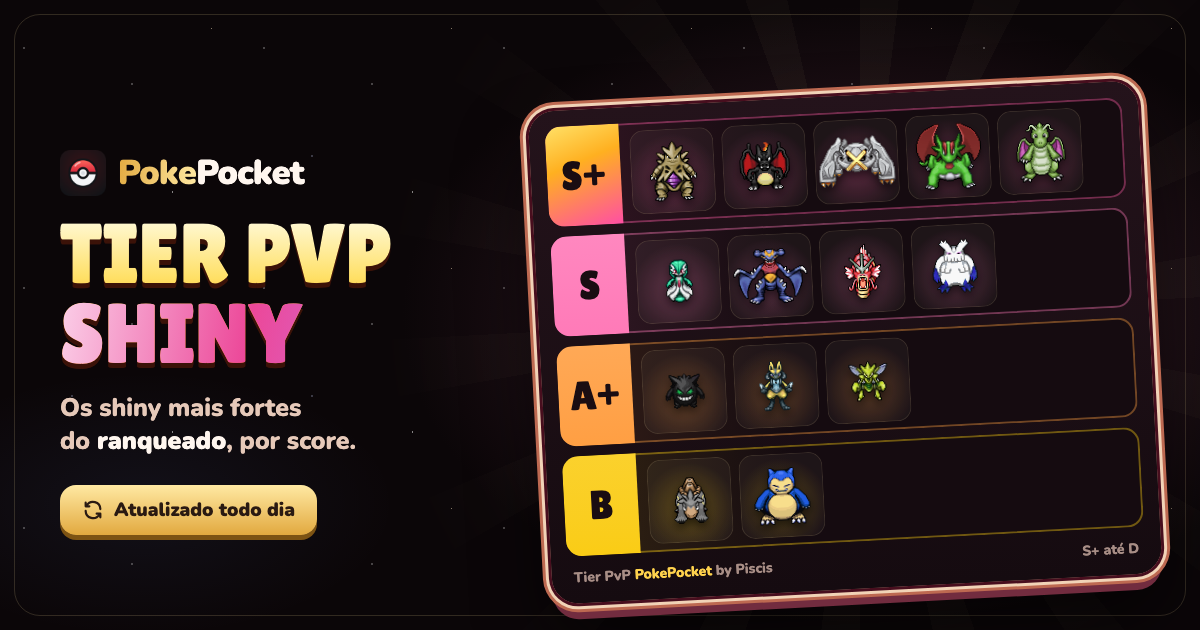
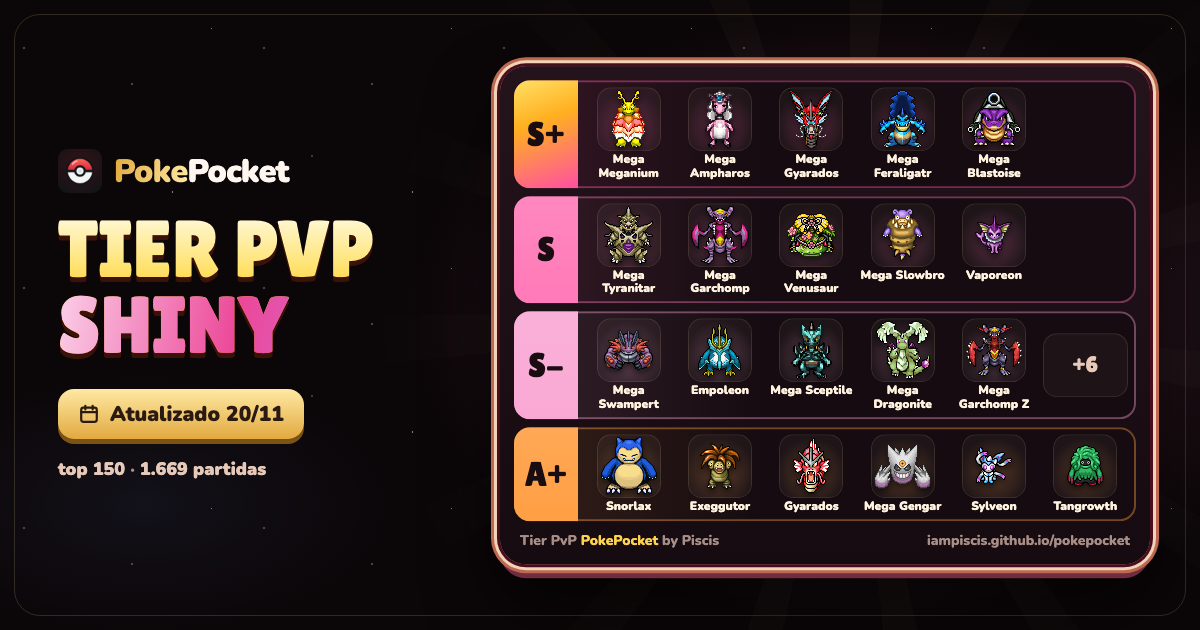
feat: prévia diária do tier com dados reais e cartões mais altos e estreitos

diff --git a/tier/previa.html b/tier/previa.html
@@ -1,0 +1,124 @@
+<!doctype html>
+<html lang="pt-BR">
+<head>
+<meta charset="utf-8" />
+<meta name="robots" content="noindex" />
+<meta name="viewport" content="width=1200" />
+<title>Prévia do Tier PvP</title>
+<style>
+@font-face { font-family: "Lilita"; src: url("../assets/fontes/lilita.woff2") format("woff2"); }
+@font-face { font-family: "Nunito"; src: url("../assets/fontes/nunito.woff2") format("woff2"); font-weight: 200 1000; }
+* { box-sizing: border-box; margin: 0; padding: 0; }
+html, body { width: 1200px; height: 630px; overflow: hidden; }
+body { position: relative; background: #0b0608; color: #fff6ef; font-family: "Nunito", sans-serif; }
+.fundo { position: absolute; inset: 0; background: radial-gradient(55% 70% at 72% 50%, #3d1f2c 0%, transparent 70%), radial-gradient(30% 30% at 12% 80%, rgba(120, 160, 255, 0.07), transparent 70%), #0b0608; }
+.fundo::before { content: ""; position: absolute; inset: 0; background-image: radial-gradient(1.4px 1.4px at 10% 20%, #fff 50%, transparent 51%), radial-gradient(1.4px 1.4px at 30% 65%, #cfd8ff 50%, transparent 51%), radial-gradient(1.4px 1.4px at 55% 35%, #fff 50%, transparent 51%), radial-gradient(1.4px 1.4px at 72% 80%, #fff 50%, transparent 51%), radial-gradient(1.4px 1.4px at 88% 12%, #ffe9c4 50%, transparent 51%); background-size: 240px 240px; opacity: 0.5; }
+.raios { position: absolute; left: 850px; top: 315px; width: 1100px; height: 1100px; margin: -550px 0 0 -550px; border-radius: 50%; background: repeating-conic-gradient(rgba(255, 233, 163, 0.05) 0deg 6deg, transparent 6deg 24deg); -webkit-mask: radial-gradient(circle, #000 10%, transparent 62%); mask: radial-gradient(circle, #000 10%, transparent 62%); }
+.moldura { position: absolute; inset: 14px; border-radius: 26px; border: 1px solid rgba(255, 233, 163, 0.16); }
+.esq { position: absolute; left: 58px; top: 0; bottom: 0; width: 400px; display: flex; flex-direction: column; justify-content: center; }
+.marca { display: flex; align-items: center; gap: 12px; font-weight: 900; font-size: 32px; letter-spacing: -0.02em; }
+.marca img { width: 44px; height: 44px; }
+.marca .p { background: linear-gradient(100deg, #e2a93f, #ffe9a3); -webkit-background-clip: text; background-clip: text; color: transparent; }
+h1 { margin-top: 18px; font-family: "Lilita"; font-weight: 400; font-size: 80px; line-height: 0.95; text-transform: uppercase; background: linear-gradient(180deg, #fffbe0 0%, #ffe066 40%, #ffb020 65%, #e8650f 100%); -webkit-background-clip: text; background-clip: text; color: transparent; filter: drop-shadow(0 5px 0 #3b1208); }
+h1 span { display: block; background: linear-gradient(100deg, #fbcfe8, #ec4899 45%, #c084fc); -webkit-background-clip: text; background-clip: text; color: transparent; }
+.data { display: inline-flex; align-self: flex-start; align-items: center; gap: 10px; margin-top: 26px; padding: 11px 20px; border-radius: 16px; background: linear-gradient(180deg, #ffe9a3, #e2a93f); color: #2a1a12; font-weight: 900; font-size: 21px; box-shadow: 0 5px 0 #7d5313; }
+.data svg { width: 22px; height: 22px; }
+.base { margin-top: 18px; font-size: 18px; font-weight: 800; color: #a88e86; }
+.base b { color: #e6c9b9; }
+.painel { position: absolute; left: 500px; top: 50%; width: 650px; padding: 14px; border-radius: 26px; transform: translateY(-50%); background: linear-gradient(180deg, #24131b, #150b10); box-shadow: 0 0 0 3px #480e1e, 0 0 0 6px #f1d3b7, 0 0 0 9px #bd6951, 0 14px 0 #722c3f, 0 36px 70px rgba(0, 0, 0, 0.6); display: grid; gap: 8px; }
+.faixa { --cor: #ff7ab8; display: grid; grid-template-columns: 64px 1fr; border-radius: 16px; overflow: hidden; background: linear-gradient(90deg, color-mix(in srgb, var(--cor) 14%, #150b10), #150b10 40%); box-shadow: inset 0 0 0 2px color-mix(in srgb, var(--cor) 40%, transparent); }
+.faixa > b { display: grid; place-items: center; font-family: "Lilita"; font-weight: 400; font-size: 34px; color: #1a0d12; background: linear-gradient(180deg, color-mix(in srgb, var(--cor) 90%, #fff), var(--cor)); }
+.faixa.splus > b { background: linear-gradient(160deg, #ffe066 0%, #ffb020 38%, #ff4fa3 100%); }
+.cel { display: grid; grid-template-columns: repeat(6, minmax(0, 1fr)); gap: 6px; padding: 7px 8px; }
+.poke { display: grid; justify-items: center; align-content: start; gap: 2px; min-width: 0; }
+.poke i { display: grid; place-items: center; width: 64px; height: 64px; border-radius: 14px; background: radial-gradient(circle at 50% 60%, color-mix(in srgb, var(--cor) 26%, transparent), transparent 70%), rgba(255, 246, 239, 0.04); box-shadow: inset 0 0 0 1px rgba(255, 233, 163, 0.12); }
+.poke img { max-width: 58px; max-height: 58px; image-rendering: pixelated; filter: drop-shadow(0 3px 3px rgba(0, 0, 0, 0.55)); }
+.poke span { max-width: 100%; font-size: 12px; font-weight: 900; line-height: 1.15; text-align: center; color: #fff3df; }
+.mais { display: grid; place-items: center; align-self: center; height: 64px; border-radius: 14px; font-family: "Lilita"; font-size: 22px; color: #e6c9b9; background: rgba(255, 246, 239, 0.04); box-shadow: inset 0 0 0 1px rgba(255, 233, 163, 0.12); }
+.pe { display: flex; justify-content: space-between; padding: 2px 6px 0; font-size: 14px; font-weight: 800; color: #a88e86; }
+.pe em { font-style: normal; color: #ffd34d; }
+</style>
+</head>
+<body>
+<div class="fundo"></div>
+<div class="raios"></div>
+<div class="moldura"></div>
+<div class="esq">
+  <div class="marca"><img src="../assets/icone.png" alt="" /><span><span class="p">Poke</span>Pocket</span></div>
+  <h1>Tier PvP<span>shiny</span></h1>
+  <span class="data"><svg viewBox="0 0 24 24" fill="none" stroke="currentColor" stroke-width="2.4" stroke-linecap="round" stroke-linejoin="round"><rect x="3.5" y="5" width="17" height="15.5" rx="2.5"/><path d="M3.5 10h17M8 3v4M16 3v4"/></svg><span id="data">Atualizado todo dia</span></span>
+  <p class="base" id="base"></p>
+</div>
+<div class="painel" id="painel"></div>
+<script type="module">
+const COR = { 'S+': '#ff5fa8', S: '#ff7ab8', 'S-': '#f9a8d4', 'A+': '#ff9f43', A: '#ffb86b', 'A-': '#ffd08a', 'B+': '#facc15', B: '#fde047', 'B-': '#fef08a', 'C+': '#60a5fa', C: '#93c5fd', 'C-': '#bfdbfe', D: '#a1a1aa' }
+const SPRITES = '../calculadora/jogo/sprites-png/'
+const POR_FAIXA = 6
+const ALTURA_MAX = 540
+const fmt = new Intl.NumberFormat('pt-BR')
+const el = (tag, cls, txt) => { const n = document.createElement(tag); if (cls) n.className = cls; if (txt != null) n.textContent = txt; return n }
+const num = (v) => v != null && v !== '' && Number.isFinite(Number(v))
+const cargas = []
+
+function sprite(p) {
+  const img = el('img')
+  img.alt = ''
+  const fila = [...new Set([p.looktype, p.lookNormal, 60000 + Number(p.speciesId)].filter(num).map(Number))].map((l) => `${SPRITES}${l}.png`)
+  cargas.push(new Promise((ok) => {
+    const proxima = () => { const u = fila.shift(); if (u) img.src = u; else { img.src = '../assets/pokebola.svg'; img.onerror = null; ok() } }
+    img.onload = ok
+    img.onerror = proxima
+    proxima()
+  }))
+  return img
+}
+
+function faixa(t) {
+  const f = el('div', `faixa${t.tier === 'S+' ? ' splus' : ''}`)
+  f.style.setProperty('--cor', COR[t.tier] || '#a1a1aa')
+  f.append(el('b', '', t.tier))
+  const cel = el('div', 'cel')
+  const itens = t.itens || []
+  const vistos = itens.length > POR_FAIXA ? POR_FAIXA - 1 : POR_FAIXA
+  for (const p of itens.slice(0, vistos)) {
+    const c = el('div', 'poke')
+    const i = el('i')
+    i.append(sprite(p))
+    c.append(i, el('span', '', p.nome))
+    cel.append(c)
+  }
+  if (itens.length > vistos) cel.append(el('div', 'mais', `+${itens.length - vistos}`))
+  f.append(cel)
+  return f
+}
+
+async function montar() {
+  const dados = await (await fetch('tier.json', { cache: 'no-cache' })).json()
+  const j = dados.janelas?.dia || dados
+  const g = new Date(dados.geradoEm)
+  if (!Number.isNaN(g.getTime())) document.getElementById('data').textContent = `Atualizado ${new Intl.DateTimeFormat('pt-BR', { day: '2-digit', month: '2-digit', timeZone: 'America/Sao_Paulo' }).format(g)}`
+  const topo = j.topo ?? dados.topo
+  const base = []
+  if (num(topo)) base.push(`top ${fmt.format(topo)}`)
+  if (num(j.partidas)) base.push(`${fmt.format(j.partidas)} partidas`)
+  const pBase = document.getElementById('base')
+  base.forEach((t, i) => { if (i) pBase.append(' · '); pBase.append(Object.assign(el('b'), { textContent: t })) })
+  const painel = document.getElementById('painel')
+  const pe = el('div', 'pe')
+  const assinatura = el('span')
+  assinatura.append('Tier PvP ', Object.assign(el('em'), { textContent: 'PokePocket' }), ' by Piscis')
+  pe.append(assinatura, el('span', '', 'iampiscis.github.io/pokepocket'))
+  painel.append(pe)
+  for (const t of (j.tiers || []).filter((t) => t.itens?.length)) {
+    const f = faixa(t)
+    painel.insertBefore(f, pe)
+    if (painel.offsetHeight > ALTURA_MAX) { f.remove(); break }
+  }
+  await Promise.all(cargas)
+  await document.fonts.ready
+}
+
+montar().catch(() => {}).finally(() => { document.body.dataset.pronto = '1' })
+</script>
+</body>
+</html>

diff --git a/tier/tier.css b/tier/tier.css
@@ -1,4 +1,4 @@
-.envolve.largo { width: min(1480px, calc(100% - 32px)); }
+.envolve.largo { width: min(1600px, calc(100% - 32px)); }
 .abre { padding: 14px 0 4px; }
 .abre h1 { margin-top: 0; }
 .abre p { margin-top: 4px; font-size: 14px; font-weight: 700; }
@@ -44,24 +44,28 @@
 .faixa-rot b { font-family: var(--display); font-weight: 400; font-size: 24px; line-height: 1; }
 .faixa-rot small { font-size: 10.5px; font-weight: 900; opacity: 0.72; white-space: nowrap; }
 .faixa.topo-s .faixa-rot { background: linear-gradient(160deg, #ffe066 0%, #ffb020 38%, #ff4fa3 100%); }
-.faixa-cartoes { display: grid; grid-template-columns: repeat(auto-fill, minmax(232px, 1fr)); gap: 5px; padding: 5px; }
+.faixa-cartoes { display: grid; grid-template-columns: repeat(auto-fill, minmax(192px, 1fr)); gap: 6px; padding: 6px; }
 
-.poke { display: grid; grid-template-columns: 40px minmax(0, 1fr) auto; grid-template-areas: "img cab val" "img uso uso" "img esc esc"; align-items: center; column-gap: 8px; row-gap: 3px; height: 100%; min-height: 56px; padding: 6px 10px 7px 6px; border-radius: 10px; text-decoration: none; background: rgba(255, 246, 239, 0.035); box-shadow: inset 0 0 0 1px rgba(255, 233, 163, 0.1); transition: transform 0.18s cubic-bezier(0.34, 1.56, 0.64, 1), background-color 0.18s, box-shadow 0.18s; }
+.poke { display: grid; grid-template-columns: 48px minmax(0, 1fr) auto; grid-template-rows: auto auto 1fr auto; grid-template-areas: "img cab cab" "img val pt" "img uso uso" "esc esc esc"; align-items: center; column-gap: 8px; row-gap: 1px; height: 100%; min-height: 80px; padding: 6px 10px 7px 6px; border-radius: 10px; text-decoration: none; background: rgba(255, 246, 239, 0.035); box-shadow: inset 0 0 0 1px rgba(255, 233, 163, 0.1); transition: transform 0.18s cubic-bezier(0.34, 1.56, 0.64, 1), background-color 0.18s, box-shadow 0.18s; }
 .poke:hover { transform: translateY(-1px); background: rgba(255, 246, 239, 0.07); box-shadow: inset 0 0 0 1px color-mix(in srgb, var(--cor) 70%, transparent), 0 6px 14px rgba(0, 0, 0, 0.35); }
 .poke:focus-visible { outline: 3px solid var(--ouro); outline-offset: 2px; }
-.poke-img { grid-area: img; display: grid; place-items: center; width: 40px; height: 40px; border-radius: 10px; background: radial-gradient(circle at 50% 60%, color-mix(in srgb, var(--cor) 22%, transparent), transparent 70%); }
-.poke-img img { max-width: 40px; max-height: 40px; width: auto; height: auto; image-rendering: pixelated; filter: drop-shadow(0 2px 2px rgba(0, 0, 0, 0.5)); transition: transform 0.25s cubic-bezier(0.3, 1.6, 0.5, 1); }
+.poke-img { grid-area: img; display: grid; place-items: center; width: 48px; height: 48px; border-radius: 10px; background: radial-gradient(circle at 50% 60%, color-mix(in srgb, var(--cor) 22%, transparent), transparent 70%); }
+.poke-img img { max-width: 48px; max-height: 48px; width: auto; height: auto; image-rendering: pixelated; filter: drop-shadow(0 2px 2px rgba(0, 0, 0, 0.5)); transition: transform 0.25s cubic-bezier(0.3, 1.6, 0.5, 1); }
 .poke-img img.bola { width: 24px; opacity: 0.5; image-rendering: auto; }
 .poke:hover .poke-img img { transform: scale(1.12) translateY(-1px); }
-.poke-cab { grid-area: cab; display: flex; align-items: center; gap: 6px; min-width: 0; }
-.poke-nome { min-width: 0; overflow-wrap: normal; word-break: normal; font-weight: 900; font-size: 14.5px; line-height: 1.25; color: #fff; }
+.poke-cab { grid-area: cab; align-self: end; display: flex; min-width: 0; }
+.poke-nome { min-width: 0; overflow: hidden; text-overflow: ellipsis; white-space: nowrap; font-weight: 900; font-size: 14.5px; line-height: 1.3; color: #fff; }
+.poke-nome.n1 { font-size: 13px; letter-spacing: -0.01em; }
+.poke-nome.n2 { font-size: 12px; letter-spacing: -0.015em; }
+.poke-nome.n3 { font-size: 11px; letter-spacing: -0.02em; }
 .pontos { flex: none; display: inline-flex; gap: 3px; }
+.poke > .pontos { grid-area: pt; justify-self: end; }
 .pontos i { width: 8px; height: 8px; border-radius: 50%; background: var(--c); box-shadow: 0 0 0 1.5px rgba(0, 0, 0, 0.35); }
-.poke-val { grid-area: val; align-self: start; justify-self: end; padding-top: 1px; font-family: var(--display); font-weight: 400; font-size: 18px; line-height: 1; color: #fff; font-variant-numeric: tabular-nums; }
-.poke-esc { grid-area: esc; display: flex; align-items: center; gap: 7px; min-width: 0; }
+.poke-val { grid-area: val; align-self: start; justify-self: start; font-family: var(--display); font-weight: 400; font-size: 21px; line-height: 1; color: #fff; font-variant-numeric: tabular-nums; }
+.poke-esc { grid-area: esc; display: flex; align-items: center; min-width: 0; padding-top: 4px; }
 .poke .escala { flex: 1 1 auto; width: auto; max-width: none; height: 4px; gap: 2px; }
 .poke .esc-marca { width: 8px; height: 8px; }
-.poke-uso { grid-area: uso; white-space: nowrap; overflow: hidden; font-size: 12px; line-height: 16px; font-weight: 800; color: var(--apagado); }
+.poke-uso { grid-area: uso; align-self: start; min-height: 15px; white-space: nowrap; overflow: hidden; font-size: 12px; line-height: 16px; font-weight: 800; color: var(--apagado); }
 .poke-uso b { color: var(--suave); font-weight: 900; }
 .so-leitor { position: absolute; width: 1px; height: 1px; overflow: hidden; clip: rect(0 0 0 0); white-space: nowrap; }
 
@@ -83,7 +87,7 @@
   .faixa { grid-template-columns: 1fr; }
   .faixa-rot { display: flex; justify-content: flex-start; align-items: baseline; gap: 8px; padding: 3px 12px; }
   .faixa-rot b { font-size: 20px; }
-  .faixa-cartoes { grid-template-columns: repeat(auto-fill, minmax(min(100%, 232px), 1fr)); }
+  .faixa-cartoes { grid-template-columns: repeat(auto-fill, minmax(min(100%, 170px), 1fr)); }
 }
 @media (max-width: 520px) {
   .janelas { flex: 1 1 100%; }

diff --git a/tier/tier.js b/tier/tier.js
@@ -106,10 +106,27 @@ function cartao(p) {
       nomesTipos ? el('span', { class: 'so-leitor', text: nomesTipos }) : null
     ]),
     score != null ? el('b', { class: 'poke-val', text: fmt.format(score) }) : null,
-    el('span', { class: 'poke-esc' }, [tipos.length ? el('span', { class: 'pontos', 'aria-hidden': 'true' }, tipos.map((t) => el('i', { style: `--c:${COR_TIPO[t] || '#777'}` }))) : null, score != null ? escala(score) : null]),
-    el('span', { class: 'poke-uso' }, uso)
+    tipos.length ? el('span', { class: 'pontos', 'aria-hidden': 'true' }, tipos.map((t) => el('i', { style: `--c:${COR_TIPO[t] || '#777'}` }))) : null,
+    el('span', { class: 'poke-uso' }, uso),
+    el('span', { class: 'poke-esc' }, [score != null ? escala(score) : null])
   ])
 }
+
+const PASSOS_NOME = ['n1', 'n2', 'n3']
+
+function ajustarNomes() {
+  const nomes = [...document.querySelectorAll('#faixas .poke-nome, #fora-faixas .poke-nome')]
+  nomes.forEach((n) => n.classList.remove(...PASSOS_NOME))
+  let fila = nomes
+  for (const passo of PASSOS_NOME) {
+    fila = fila.filter((n) => n.scrollWidth > n.clientWidth + 1)
+    if (!fila.length) break
+    fila.forEach((n) => { n.classList.remove(...PASSOS_NOME); n.classList.add(passo) })
+  }
+}
+
+let esperaNomes = 0
+addEventListener('resize', () => { clearTimeout(esperaNomes); esperaNomes = setTimeout(ajustarNomes, 150) })
 
 function filtrar(itens) {
   const q = normalizar(estado.busca)
@@ -213,6 +230,7 @@ function pintar() {
   }
   $('fora-faixas').replaceChildren(...foraFaixas)
   $('fora').hidden = !foraFaixas.length
+  ajustarNomes()
   $('vazio').hidden = faixas.length + foraFaixas.length > 0
 }
 

diff --git a/tier/index.html b/tier/index.html
@@ -10,14 +10,14 @@
   <meta property="og:site_name" content="PokePocket" />
   <meta property="og:locale" content="pt_BR" />
   <meta property="og:title" content="Tier PvP shiny · PokePocket" />
-  <meta property="og:description" content="Os shiny mais fortes do ranqueado do Pokéidle, atualizados todo dia." />
+  <meta property="og:description" content="S+ hoje: Mega Meganium, Mega Ampharos, Mega Gyarados… · atualizado todo dia ao meio-dia" />
   <meta property="og:url" content="https://iampiscis.github.io/pokepocket/tier/" />
-  <meta property="og:image" content="https://iampiscis.github.io/pokepocket/assets/previa-tier.png" />
+  <meta property="og:image" content="https://iampiscis.github.io/pokepocket/assets/previa-tier.png?d=20261120" />
   <meta property="og:image:width" content="1200" />
   <meta property="og:image:height" content="630" />
   <meta property="og:image:alt" content="Tier PvP shiny do PokePocket: pokémon do ranqueado do Pokéidle em faixas de S+ a D" />
   <meta name="twitter:card" content="summary_large_image" />
-  <meta name="twitter:image" content="https://iampiscis.github.io/pokepocket/assets/previa-tier.png" />
+  <meta name="twitter:image" content="https://iampiscis.github.io/pokepocket/assets/previa-tier.png?d=20261120" />
   <link rel="icon" href="../assets/icone.png" />
   <script>document.documentElement.classList.add('sem-vt')</script>
   <link rel="stylesheet" href="../calculadora/calc.css" />
